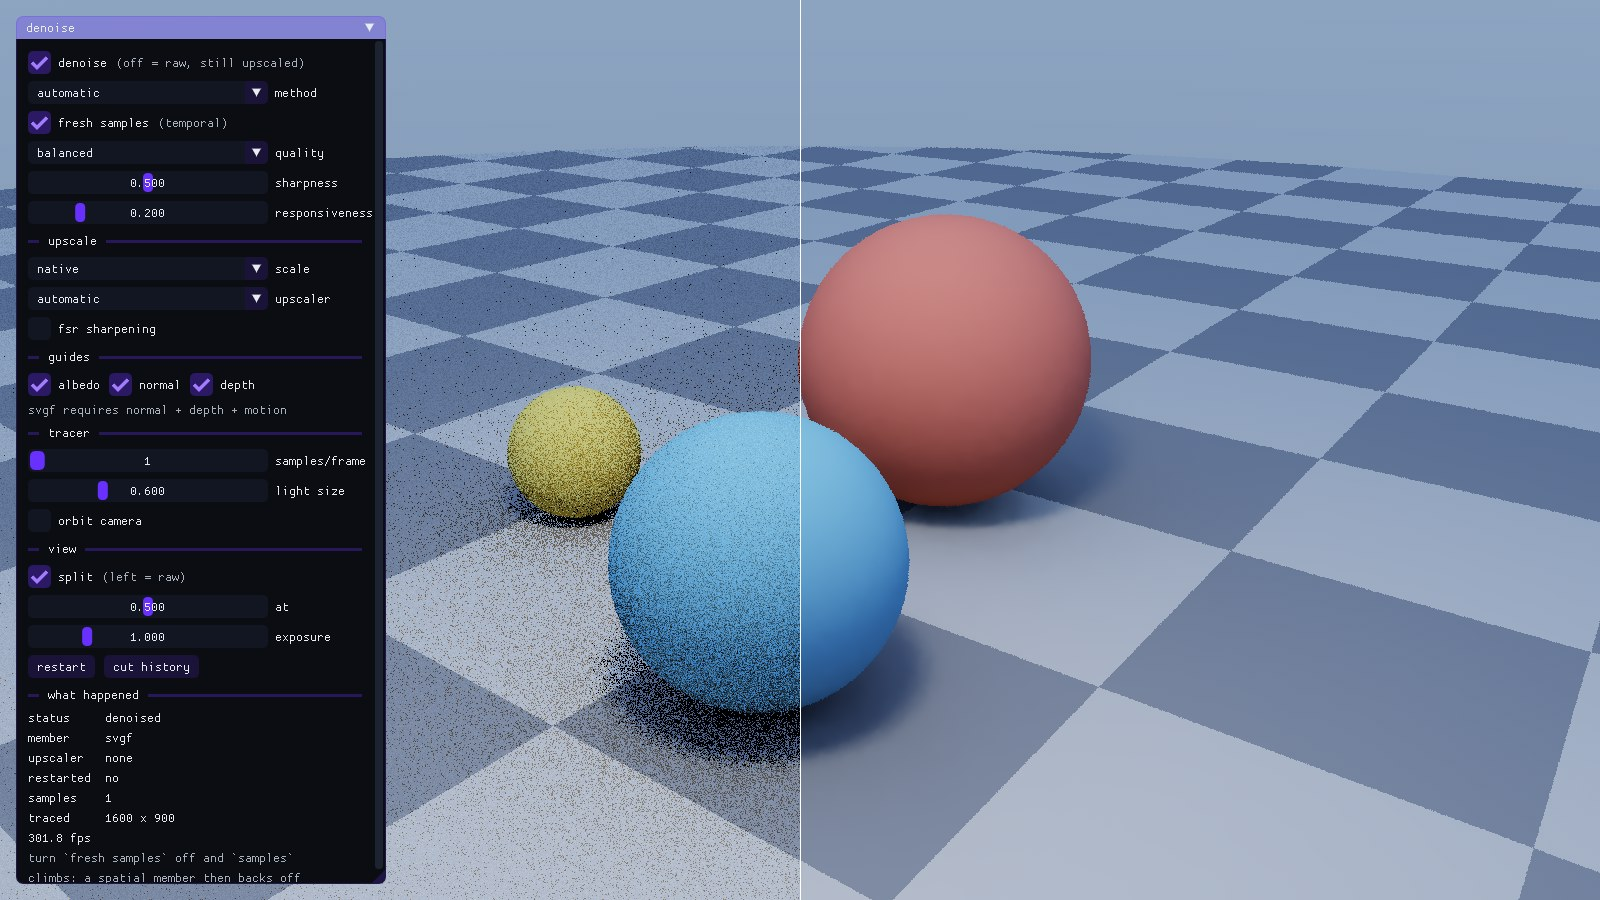
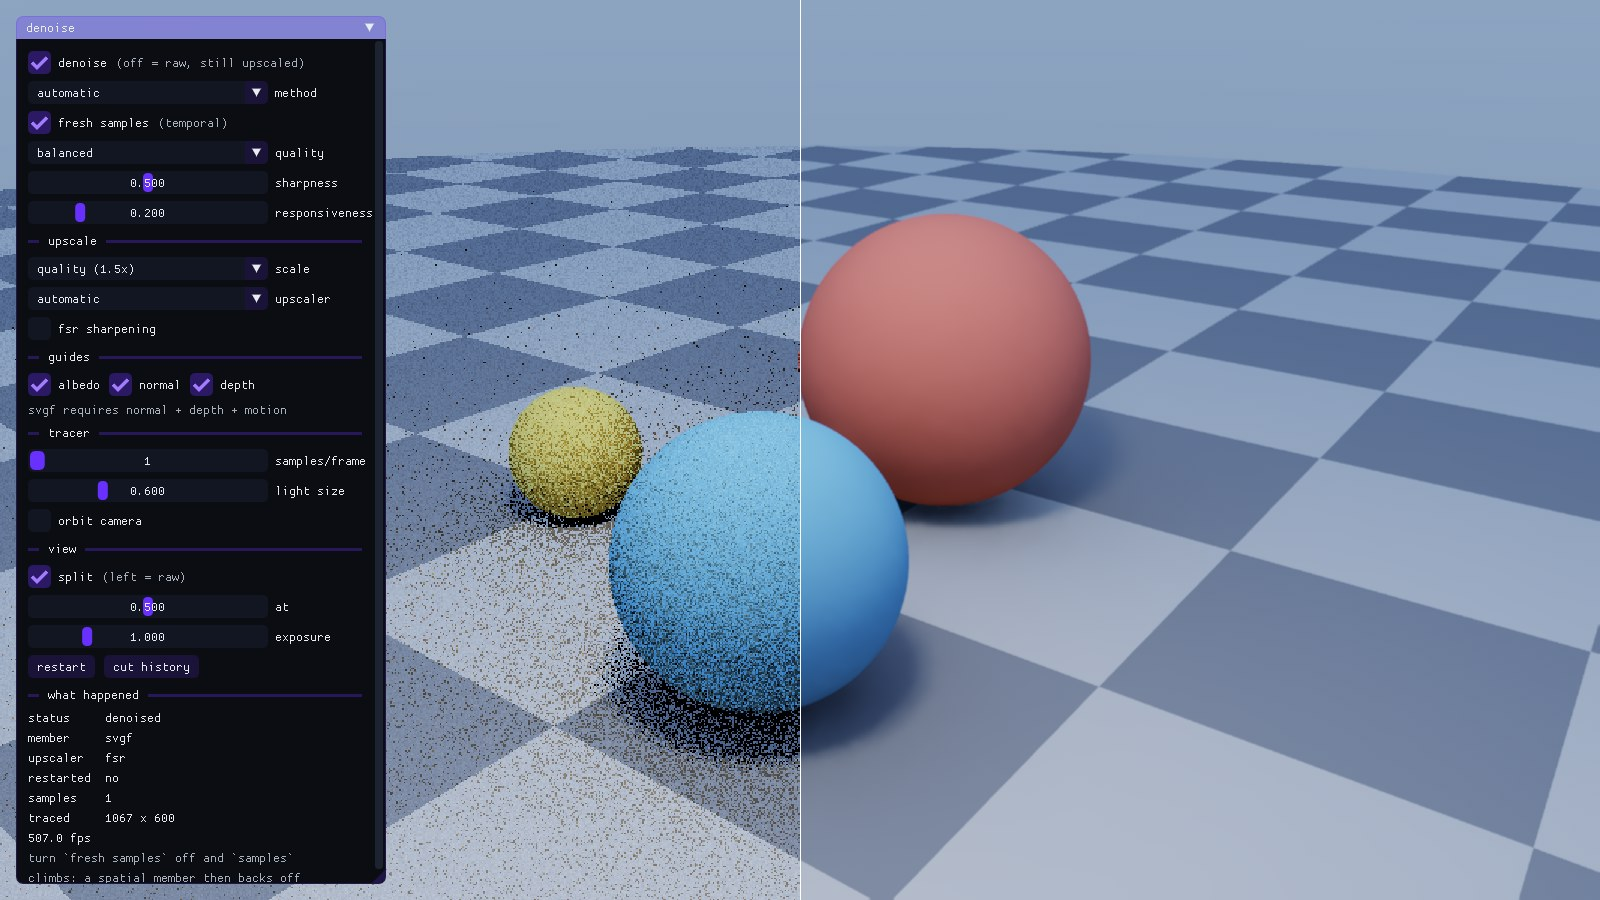
sr: the denoise playground opens with FSR upscaling on
At native scale nothing upscales, so FSR stayed invisible until the scale was changed by hand.

Assisted-By: Claude Code <claude-opus-5-5>

Changed region(s): [[0.25, 0.4044, 0.5, 1.0]]

diff --git a/libs/graphics/shaped-rendering/examples/denoise-playground/denoise_playground.cc b/libs/graphics/shaped-rendering/examples/denoise-playground/denoise_playground.cc
@@ -66,7 +66,8 @@ struct controls
     /// `fresh_samples` on by default, which is what opens the example on the interesting half: one sample a pixel,
     /// permanently noisy on the left of the split, and svgf holding it together on the right.
     /// Turning it off switches to the accumulating half, where the mean converges and a spatial member backs off.
-    sr::reconstruct_settings denoise = {.fresh_samples = true};
+    /// `quality` traces at 1/1.5 of the window, so the upscaler behind the denoiser is on screen from the first frame.
+    sr::reconstruct_settings denoise = {.scale = sr::render_scale_preset::quality, .fresh_samples = true};
     bool denoise_enabled = true;
     bool fsr_sharpening = false;
     int spp = 1;
